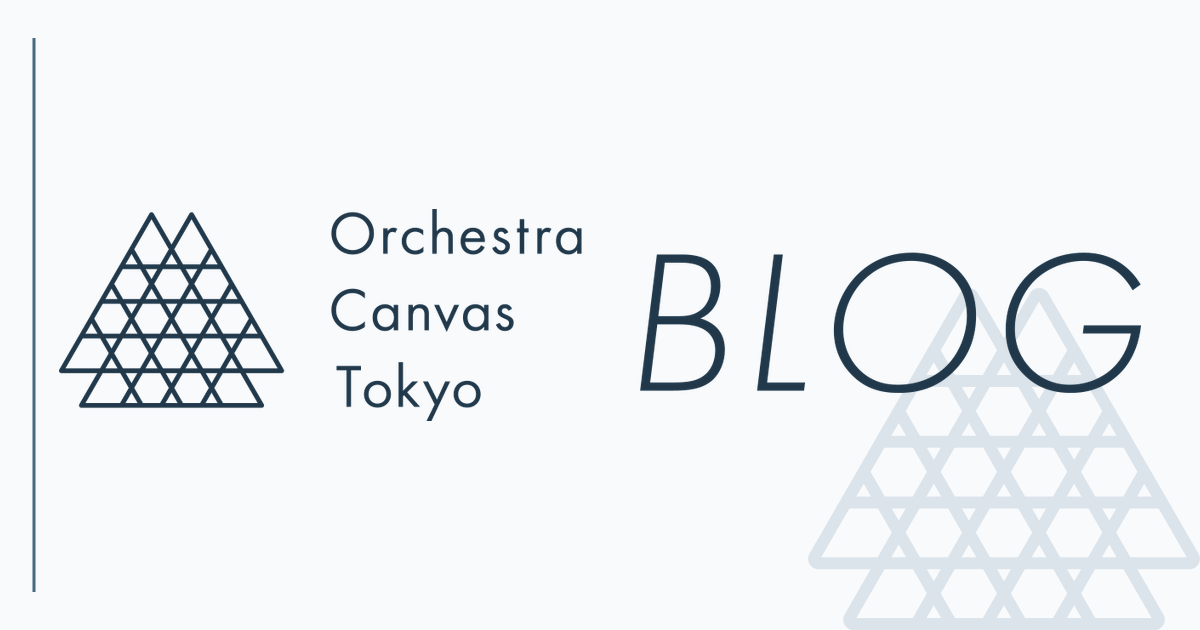
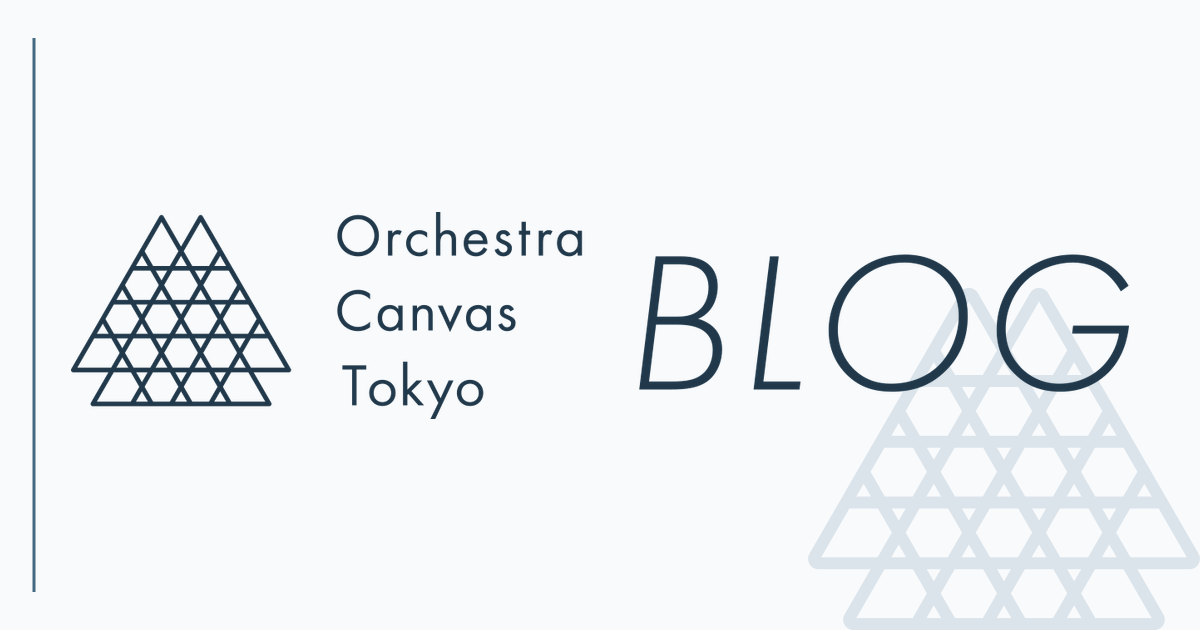
Increase default OGP side margins by twenty percent

diff --git a/docs/ogp-images.md b/docs/ogp-images.md
@@ -55,10 +55,10 @@ numbered Markdown index. Ordinary dev/build generation does not modify the revie
 snapshots. Review snapshots are documentation only; deployed images come from
 `static/ogp/`.
 
-The default card contains only the blog masthead, scaled to approximately 1082px wide on the
-1200px canvas, centered horizontally and vertically. The approximately 59px side
-margins match the larger internal gap between the orchestra name and BLOG
-(34.5 units in the 636.16-wide source SVG). The original logo proportions and
+The default card contains only the blog masthead, scaled to 1058px wide on the
+1200px canvas, centered horizontally and vertically. Its 71px side margins are
+approximately 20% larger than the previous 59px gutters, which were based on the
+internal gap between the orchestra name and BLOG. Original logo proportions and
 internal spacing are preserved; top and bottom margins follow its aspect ratio. It has no 「曲目解説」 title, composer row, or tagline.
 
 ## Per-post OGP metadata
